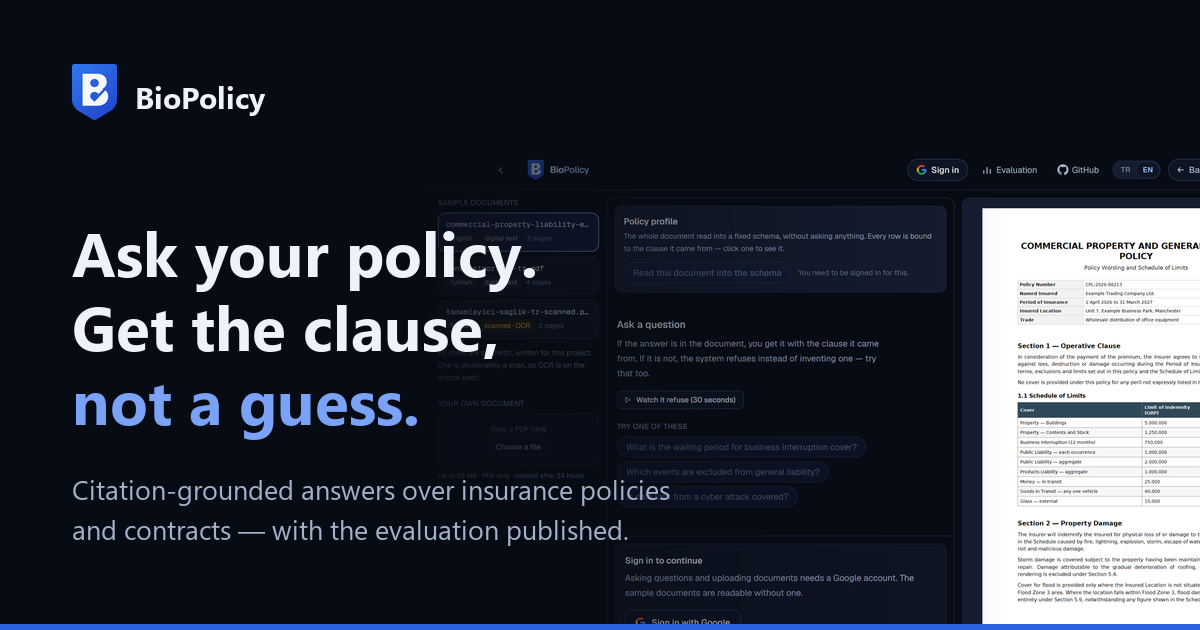
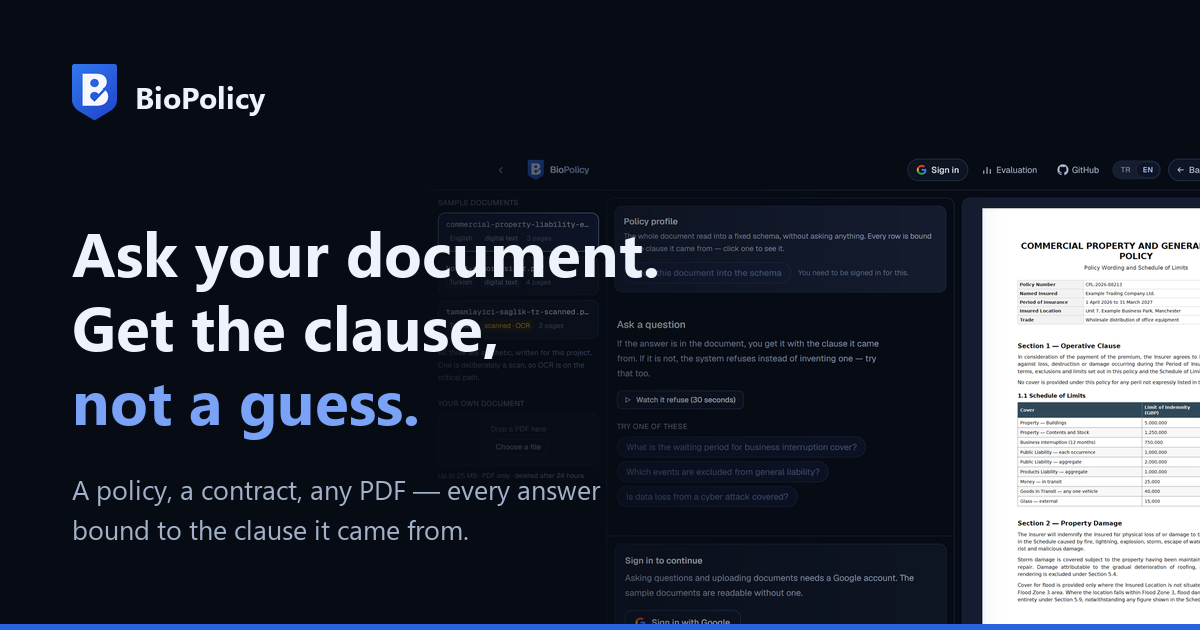
Say documents, because that is what it reads
The landing said "Ask your policy" and offered a sample policy, while the thing
underneath has always taken any PDF. The samples are policies and the
evaluation was measured on policies, so the demonstration stays what it was —
but the promise no longer describes a narrower system than the one that is
running.

Changed where it was too narrow: the tagline, the primary call to action, the
sign-in screen's heading, the page title and description, and the Open Graph
card, which would otherwise have kept telling everyone who shared a link that
this reads policies.

Left alone where policy is the accurate word: the policy profile extracts an
insurance schema and says so, the evaluation caveat still names the corpus it
was measured on, and the worked example on the landing is still a home policy
being asked about flood damage — a concrete example is not a claim of scope.

Changed region(s): [[0.0617, 0.754, 0.555, 0.8746], [0.2775, 0.3619, 0.555, 0.4825]]

diff --git a/web/lib/i18n.ts b/web/lib/i18n.ts
@@ -28,9 +28,9 @@ export const DEFAULT_LOCALE: Locale = "en";
 
 const tr = {
   meta: {
-    title: "BioPolicy — poliçenizde gerçekten ne yazıyor",
+    title: "BioPolicy — belgenizde gerçekten ne yazıyor",
     description:
-      "Sigorta poliçeleri ve hukuki sözleşmeler için, her cevabı belgedeki maddeye bağlayan; belge cevabı içermiyorsa cevap vermeyi reddeden bir soru-cevap sistemi.",
+      "Sigorta poliçesi, sözleşme ya da herhangi bir PDF: her cevabı belgedeki maddeye bağlayan, belge cevabı içermiyorsa cevap vermeyi reddeden bir soru-cevap sistemi.",
     // What each route is called. Two consumers, deliberately sharing one
     // source: the browser tab, which `LocaleProvider` rewrites because page
     // metadata is resolved at build time and cannot follow a client-side
@@ -78,12 +78,12 @@ const tr = {
     eyebrow: "Açık kaynak · sayıları yayımlanmış · TR/EN",
     // Two sentences, authored as two lines rather than left to `text-balance`.
     // The balancer optimises for even line widths, not for meaning, and on this
-    // string it breaks mid-sentence — the English reads "Ask your policy. Get /
+    // string it breaks mid-sentence — the English reads "Ask your document. Get /
     // the clause, not a guess", which is the dangling word the balancer exists
     // to prevent. A line per sentence is the couplet the tagline is written as.
-    thesis: ["Poliçenize sorun.", "Tahmin değil, maddenin kendisini alın."],
-    lede: "Her cevap, dayandığı maddeyle birlikte belgenin üzerinde işaretli gelir. “Bu bilgi bu belgede yok” da bir cevaptır.",
-    ctaPrimary: "Örnek bir poliçeyle deneyin",
+    thesis: ["Belgenize sorun.", "Tahmin değil, maddenin kendisini alın."],
+    lede: "Poliçe, sözleşme, herhangi bir PDF. Her cevap dayandığı maddeyle birlikte belgede işaretli gelir; “bu bilgi bu belgede yok” da bir cevaptır.",
+    ctaPrimary: "Örnek bir belgeyle deneyin",
     ctaSecondary: "Nasıl çalışıyor",
     ctaNote: "Örnekler hesapsız okunur · Soru sormak için Google ile giriş · Günde 3 soru",
     howTitle: "Üç adımda",
@@ -316,7 +316,7 @@ const tr = {
     reset: "Seçimimi değiştir",
   },
   signin: {
-    title: "Poliçenizi sorun",
+    title: "Belgenize sorun",
     lede: "Devam etmek için Google hesabınızla girin. Örnek belgeleri girmeden de inceleyebilirsiniz.",
     why: "Her soru gerçek bir model çağrısı ve gerçek bir fatura. Giriş, günlük hakkın kime ait olduğunu belirliyor — başka bir sebebi yok.",
     browse: "Girmeden incele",
@@ -513,9 +513,9 @@ type Dictionary = typeof tr;
 
 const en: Dictionary = {
   meta: {
-    title: "BioPolicy — what your policy actually says",
+    title: "BioPolicy — what your document actually says",
     description:
-      "Question answering over insurance policies and legal contracts that binds every answer to a clause in the document, and refuses when the document does not say.",
+      "A policy, a contract or any PDF: question answering that binds every answer to a clause in the document, and refuses when the document does not say.",
     pages: {
       app: "Workspace",
       eval: "Evaluation",
@@ -549,9 +549,9 @@ const en: Dictionary = {
   },
   landing: {
     eyebrow: "Open source · every number published · TR/EN",
-    thesis: ["Ask your policy.", "Get the clause, not a guess."],
-    lede: "Every answer arrives with its clause, highlighted in the document. “That isn't in this document” is an answer too.",
-    ctaPrimary: "Try it on a sample policy",
+    thesis: ["Ask your document.", "Get the clause, not a guess."],
+    lede: "A policy, a contract, any PDF. Every answer arrives with its clause, highlighted in the document — and “that isn't in this document” is an answer too.",
+    ctaPrimary: "Try it on a sample document",
     ctaSecondary: "How it works",
     ctaNote: "Samples readable without an account · Google sign-in to ask · 3 questions a day",
     howTitle: "In three steps",
@@ -783,7 +783,7 @@ const en: Dictionary = {
     reset: "Change my choice",
   },
   signin: {
-    title: "Ask your policy",
+    title: "Ask your document",
     lede: "Sign in with Google to continue. The sample documents are readable without an account.",
     why: "Every question is a real model call against a real bill. Signing in is what the daily allowance is counted against — that is the whole reason for it.",
     browse: "Look around first",
